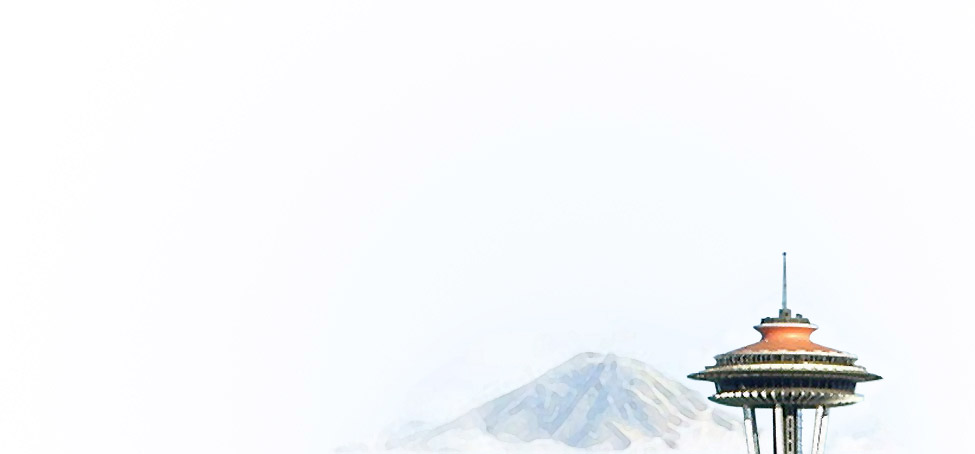
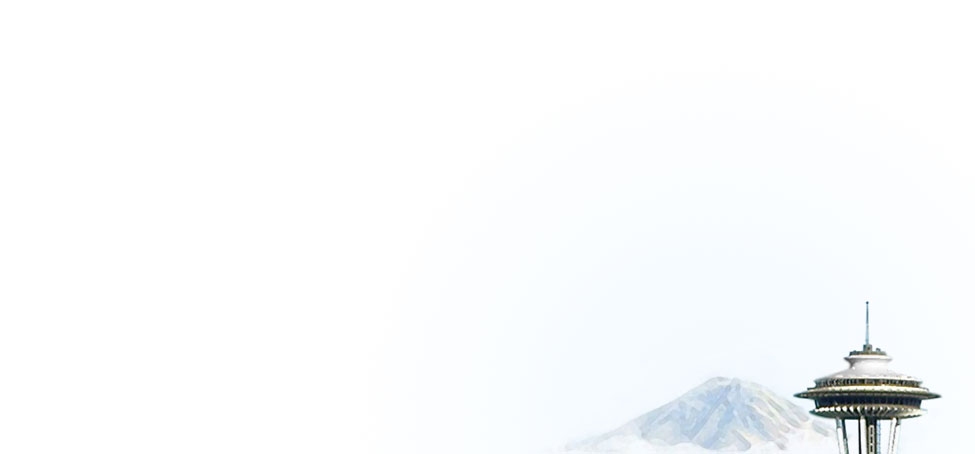
NOOP: Theme updates for data.seattle.gov
QA: None

Changed region(s): [[0.4, 0.6167, 0.9846, 1.0], [0.8, 0.5551, 0.8308, 0.5859]]

diff --git a/public/stylesheets/custom/data.seattle.gov.css b/public/stylesheets/custom/data.seattle.gov.css
@@ -9,7 +9,7 @@
 #discover .seattleWelcomeHeader .seattleBlockHeaderBR
 {
     background: url(/stylesheets/images/content/background_corner_bottom_right.png) no-repeat bottom right;
-    min-height: 26em;
+    min-height: 15em;
     padding: 2em;
 }
 
@@ -31,10 +31,10 @@
 #discover .seattleWelcomeHeader .seattleLogo
 {
     background: transparent url(/stylesheets/images/domains/data.seattle.gov/logo_large.png) no-repeat;
-    height: 39px;
+    height: 62px;
     margin: 0.7em 1.3em;
     text-indent: -9999px;
-    width: 426px;
+    width: 392px;
 }
 
 #discover .seattleWelcomeHeader .seattleText
@@ -42,7 +42,7 @@
     color: #888;
     font-size: 1.3em;
     margin: 1.5em 1.8em;
-    width: 35em;
+    width: 60em;
 }
 
 #discover .seattleWelcomeHeader .seattleText a

diff --git a/app/helpers/application_helper.rb b/app/helpers/application_helper.rb
@@ -642,7 +642,6 @@ HREF
               {{data_search_field}}
             </div>
 
-            <p class="seattleTitle">Welcome To</p>
             <div class="seattleLogo">Data.Seattle.Gov</div>
             <p class="seattleMain">The purpose of Data.Seattle.Gov is to
               increase public access to high value, machine readable datasets
